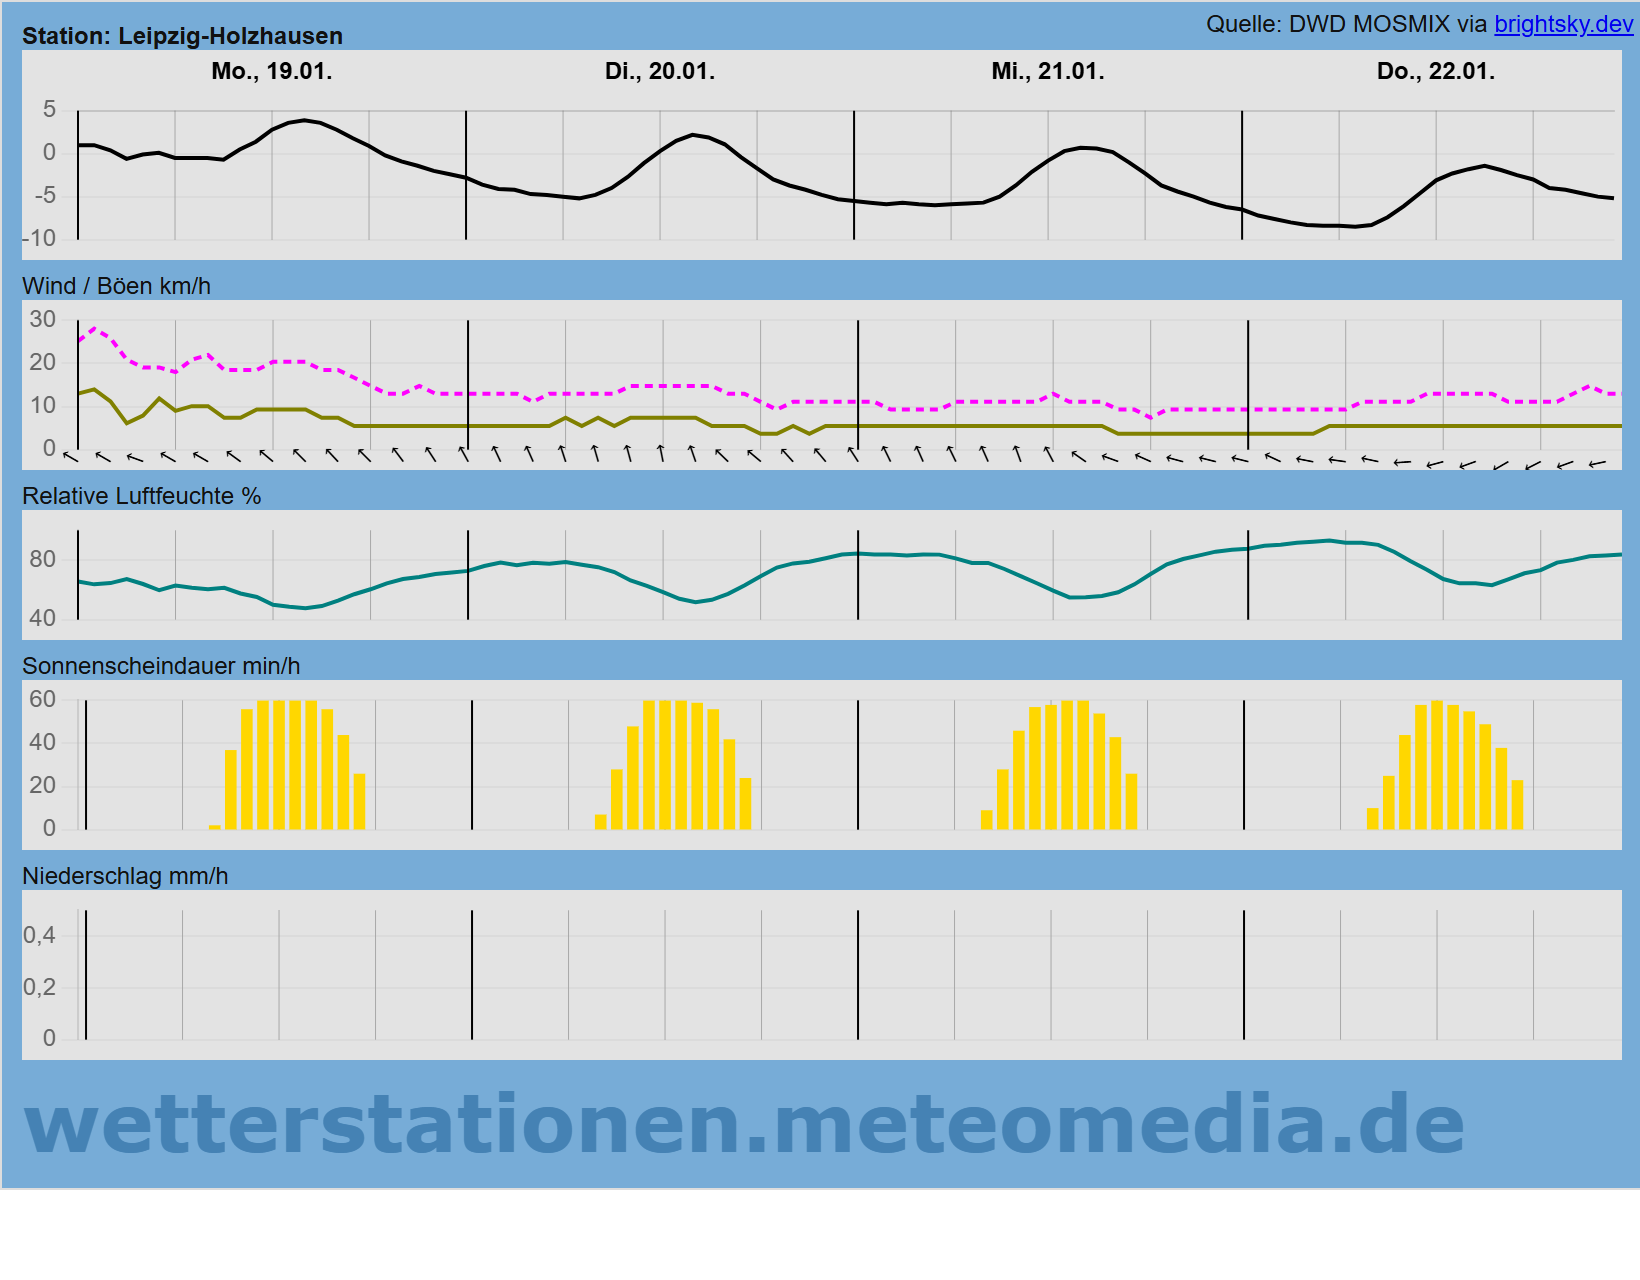
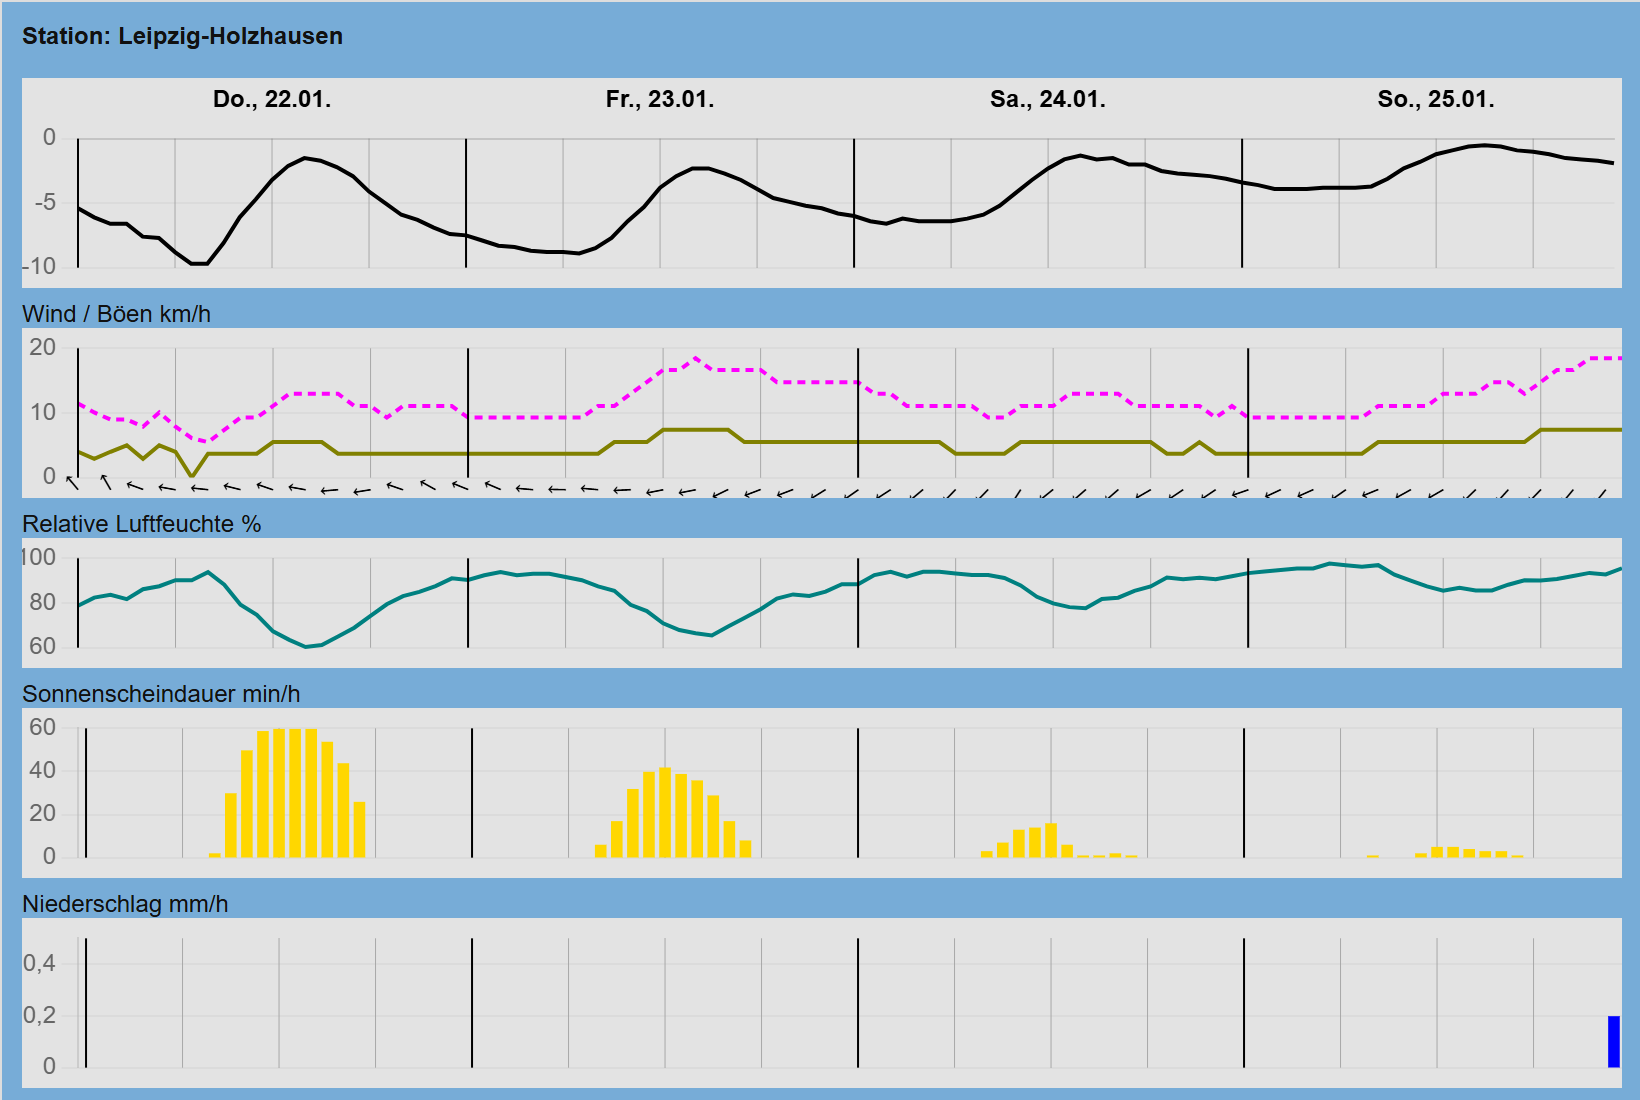
png size fix

diff --git a/app.html b/app.html
@@ -100,10 +100,11 @@ canvas {
 
 <div id="app">
   <div id="stationName">Station:</div>
-  <div id="metadata">
+  <br>
+  <!-- <div id="metadata">
     Quelle: DWD MOSMIX via
     <a target="_blank" href="https://brightsky.dev/">brightsky.dev</a>
-  </div>
+  </div> -->
 
   <div class="panel">
     <div class="panel-title" style="margin-bottom:-20px;">Temperatur °C</div>
@@ -140,7 +141,7 @@ canvas {
     </div>
   </div>
 
-  <div id="meteomedia-legacy">wetterstationen.meteomedia.de</div>
+  <!-- <div id="meteomedia-legacy">wetterstationen.meteomedia.de</div> -->
 </div>
 
 <script>

diff --git a/render.js b/render.js
@@ -20,7 +20,7 @@ const OUTPUT = path.join(__dirname, "output", "meteomedia_10471.png");
   // Feste Größe für reproduzierbares PNG
   await page.setViewport({
     width: 820,
-    height: 640,
+    height: 550,
     deviceScaleFactor: 2   // scharf!
   });
 
@@ -40,7 +40,7 @@ const OUTPUT = path.join(__dirname, "output", "meteomedia_10471.png");
       x: 0,
       y: 0,
       width: 820,
-      height: 640
+      height: 550
     }
   });
 
